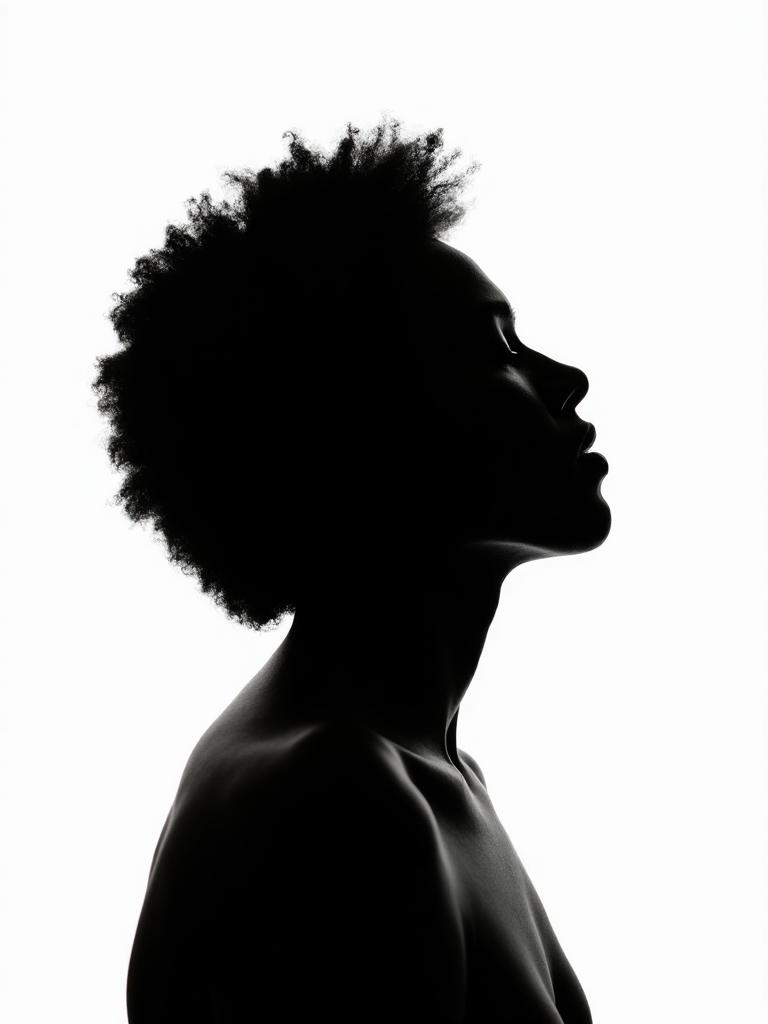
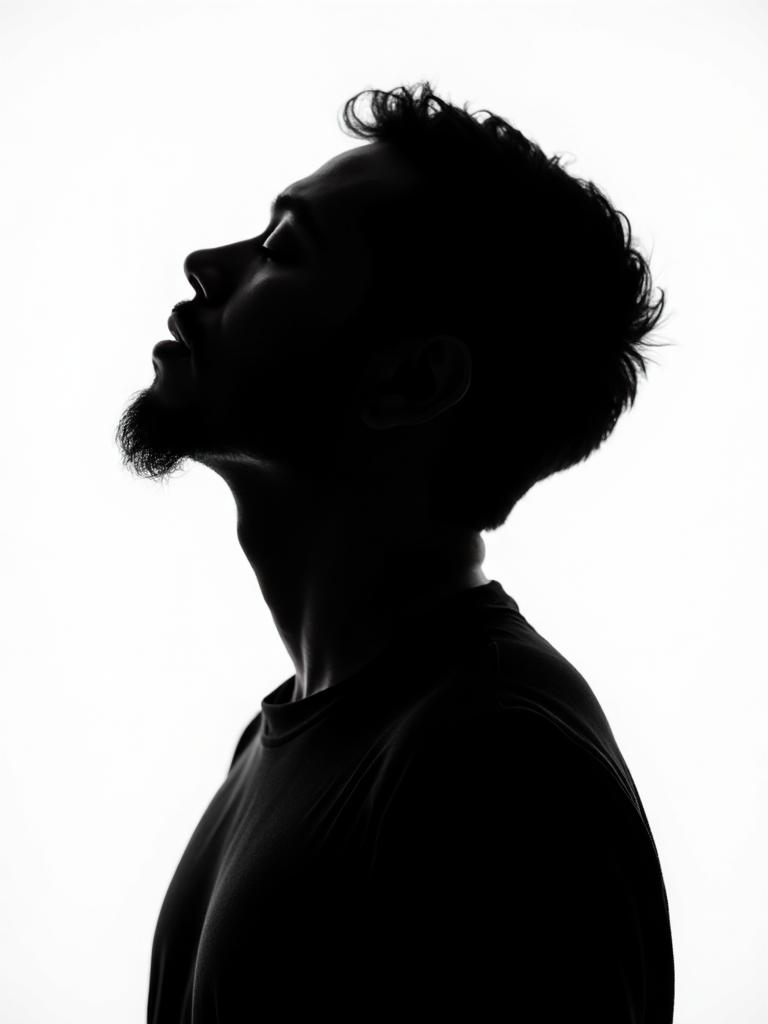
Changes

Changed region(s): [[0.125, 0.0625, 0.9062, 1.0]]

diff --git a/src/components/application/FindFacilitatorCTA.tsx b/src/components/application/FindFacilitatorCTA.tsx
@@ -5,32 +5,23 @@ import facilitatorImage from '@/assets/facilitator-silhouette.png';
 export default function FindFacilitatorCTA() {
   return (
     <section className="relative bg-background overflow-hidden">
-      <div className="relative mx-auto max-w-5xl px-6 py-20 md:py-28">
-        <div className="flex flex-col md:flex-row items-center gap-12 md:gap-16">
+      <div className="relative mx-auto max-w-6xl px-6 py-20 md:py-28">
+        <div className="flex flex-col md:flex-row items-center gap-8 md:gap-12">
           {/* Left — Text CTA */}
-          <motion.div
-            className="flex-1 flex flex-col items-start gap-6"
+          <motion.a
+            href="#"
+            className="flex-1 flex items-center gap-4 group cursor-pointer"
             initial={{ opacity: 0, x: -20 }}
             whileInView={{ opacity: 1, x: 0 }}
             viewport={{ once: true, margin: '-60px' }}
             transition={{ duration: 0.7, ease: [0.22, 1, 0.36, 1] }}
+            whileHover={{ x: 6 }}
           >
-            <h2 className="text-4xl sm:text-5xl md:text-6xl lg:text-7xl font-extrabold tracking-tight text-foreground leading-[1.05]">
-              Find a
-              <br />
-              Facilitator
+            <h2 className="text-4xl sm:text-5xl md:text-6xl lg:text-7xl font-extrabold tracking-tight text-foreground leading-[1.05] whitespace-nowrap">
+              Find a Facilitator
             </h2>
-
-            <motion.a
-              href="#"
-              className="group inline-flex items-center gap-3 text-lg sm:text-xl font-medium text-foreground/70 hover:text-foreground transition-colors duration-300"
-              whileHover={{ x: 4 }}
-              transition={{ type: 'spring', stiffness: 300, damping: 20 }}
-            >
-              <span>Explore the directory</span>
-              <ArrowRight className="h-5 w-5 transition-transform duration-300 group-hover:translate-x-1" />
-            </motion.a>
-          </motion.div>
+            <ArrowRight className="h-8 w-8 sm:h-10 sm:w-10 md:h-12 md:w-12 text-foreground/60 group-hover:text-foreground transition-all duration-300 group-hover:translate-x-2 shrink-0" />
+          </motion.a>
 
           {/* Right — Silhouette */}
           <motion.div
@@ -42,8 +33,8 @@ export default function FindFacilitatorCTA() {
           >
             <img
               src={facilitatorImage}
-              alt="Silhouette of a person with eyes closed in a relaxed state"
-              className="h-[340px] sm:h-[400px] md:h-[460px] lg:h-[520px] w-auto object-contain"
+              alt="Silhouette of a Latin-American male with eyes closed in a relaxed state"
+              className="h-[440px] sm:h-[520px] md:h-[580px] lg:h-[660px] w-auto object-contain"
             />
           </motion.div>
         </div>
